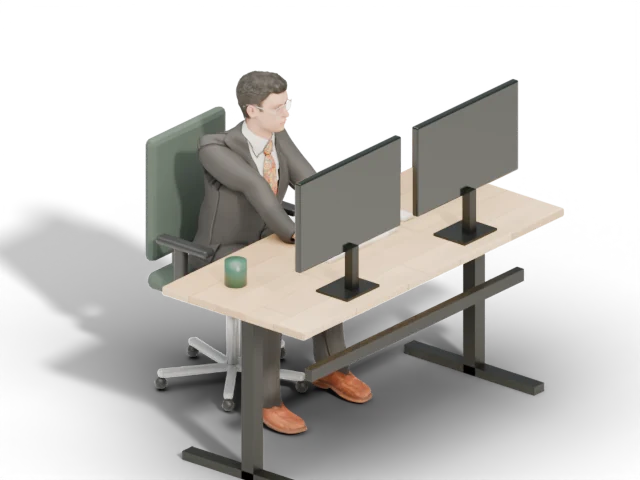
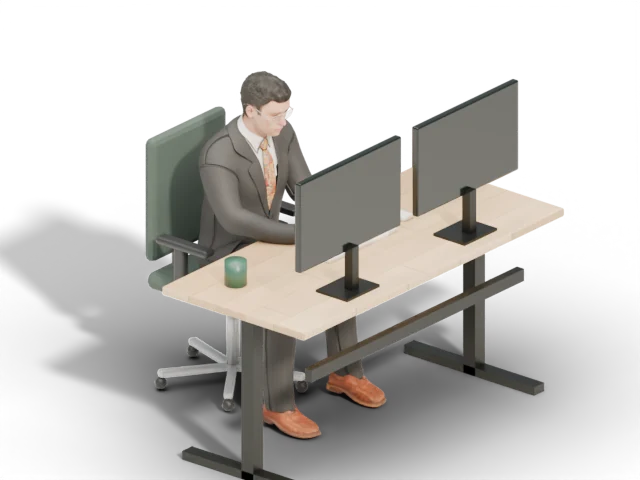
Postura: sprites, rostos e estações refeitos com o tronco ereto
Fecha #15.

Claude-Session: https://claude.ai/code/session_01WUviDDEtXKgk44MpZk7EB7

diff --git a/docs/auditoria.md b/docs/auditoria.md
@@ -221,6 +221,7 @@ O lab também tem missões internas, sem projeto: tom de voz dos posts com Iara,
 | #35 Publicação | Com o sócio: Access, chave e pull request | |
 | #36 Pendências visuais | Planta numerada e próxima reunião feitas; ficha depende da #33 | feature/pendencias-visuais |
 | #37 Corrigir reunião e decisão | Feito | feature/corrige-reuniao |
+| #38 Postura dos personagens (issue 15 no GitHub) | Corcunda corrigida: o tronco mantém a curva do próprio modelo, parado parte do repouso ereto com os braços soltos, andando com a cabeça nivelada e sentado ereto com os cotovelos junto do corpo | feature/postura |
 
 Defeito achado no caminho: o Worker não sobe quando o módulo principal exporta uma constante solta. Corrigido na própria branch da #27.
-Testes automatizados: 43 passando.
+Testes automatizados: 46 passando.
